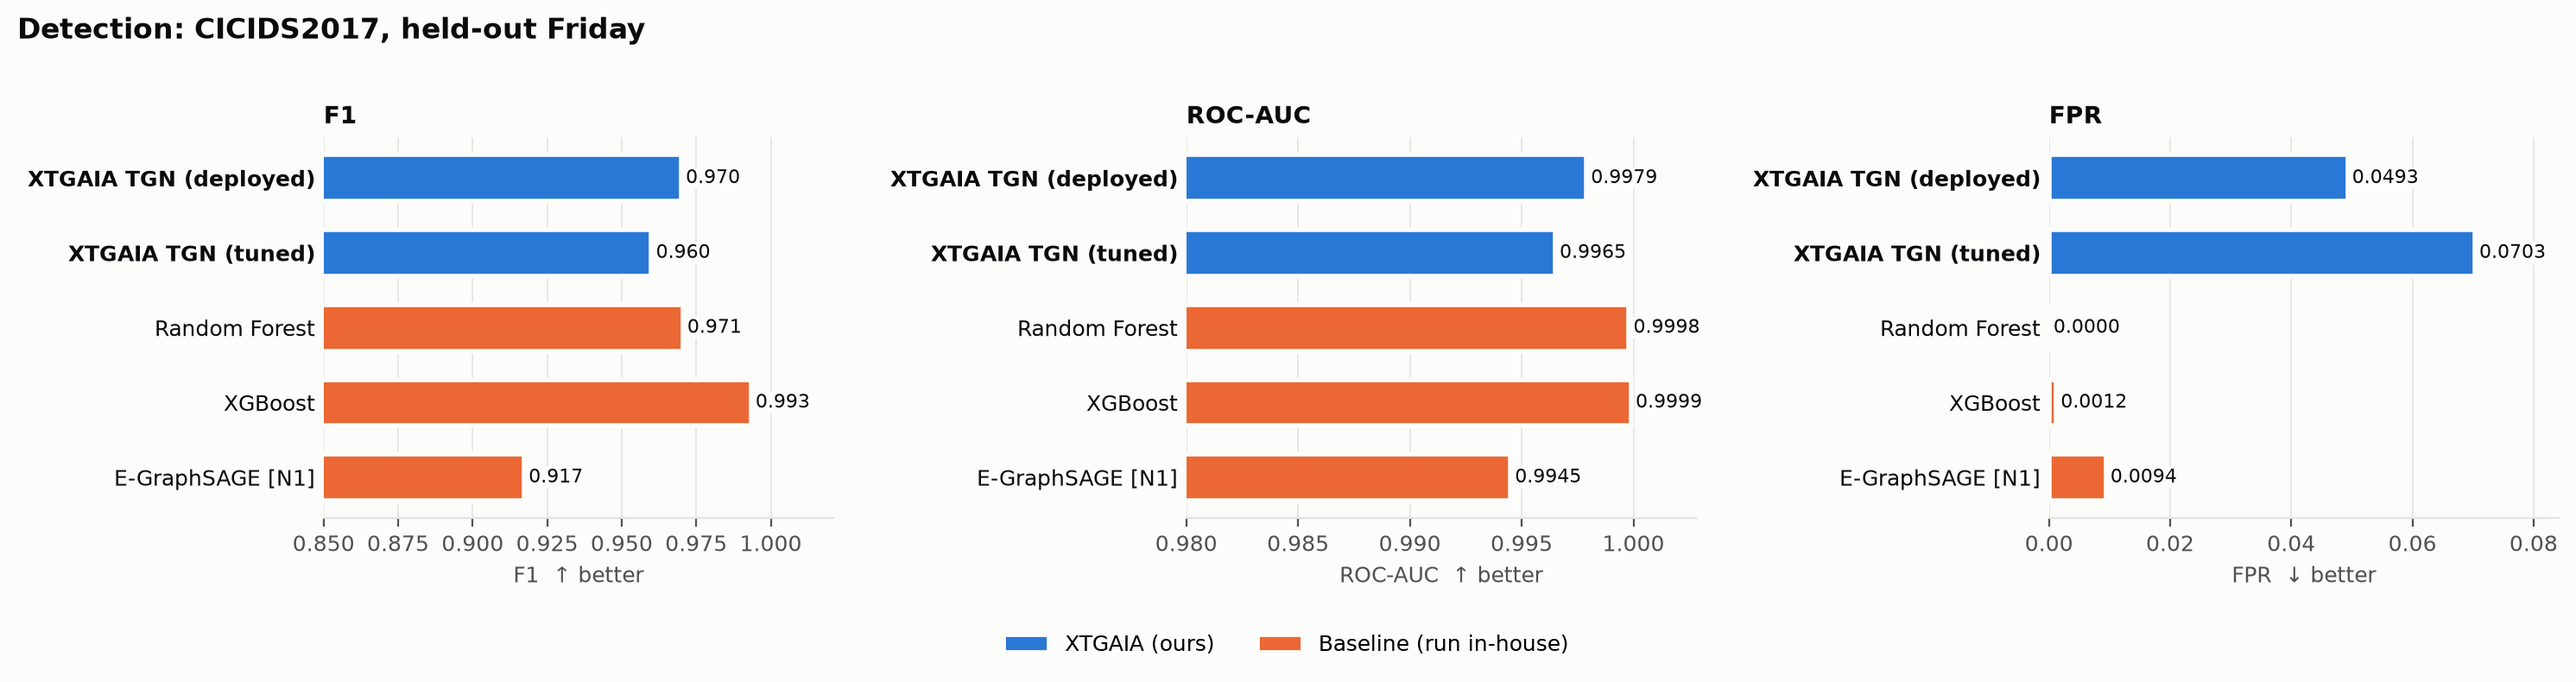
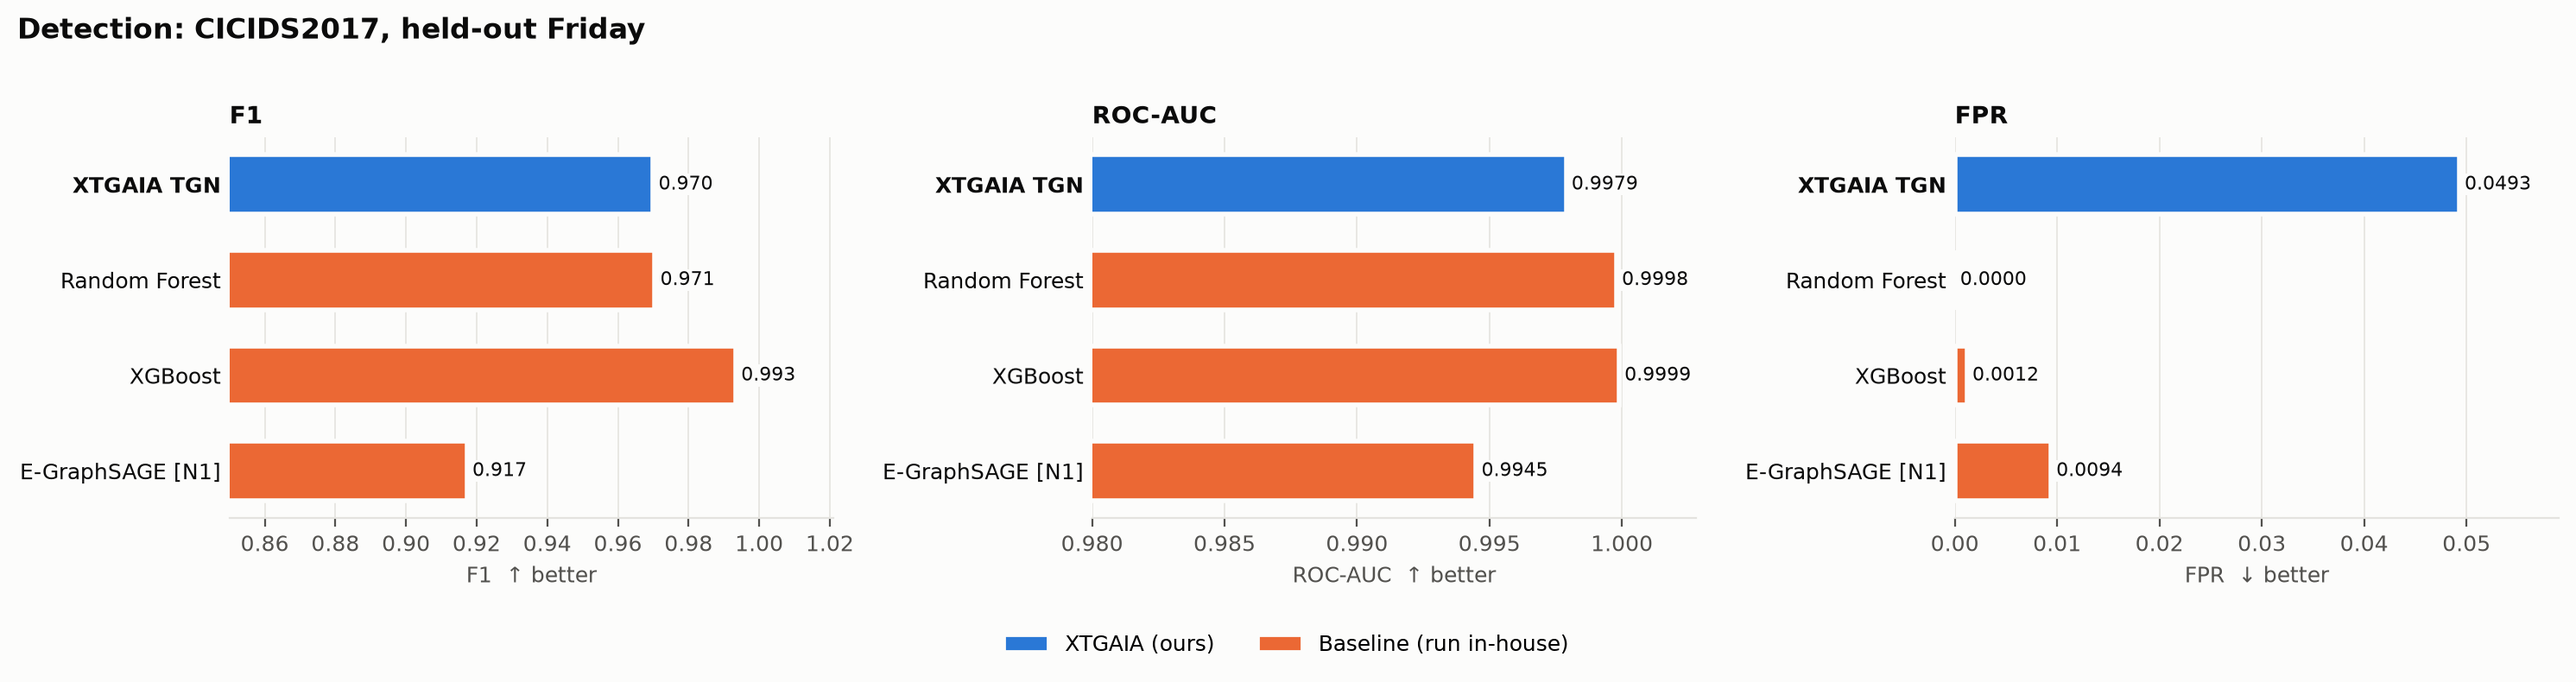
fig1b: show only the deployed TGN on CICIDS held-out Friday (tuned model dropped from the figure)

diff --git a/scripts/make_comparison_figures.py b/scripts/make_comparison_figures.py
@@ -137,11 +137,11 @@ def design_check():
 
 def detection_cicids():
     # docs/evaluation_results.md, CICIDS2017 held-out Friday (train Mon-Thu, test Friday)
-    f1 = [("XTGAIA TGN (deployed)", 0.970, "ours"), ("XTGAIA TGN (tuned)", 0.960, "ours"),
+    f1 = [("XTGAIA TGN", 0.970, "ours"),
           ("Random Forest", 0.9705, "inhouse"), ("XGBoost", 0.9934, "inhouse"), ("E-GraphSAGE [N1]", 0.9173, "inhouse")]
-    auc = [("XTGAIA TGN (deployed)", 0.9979, "ours"), ("XTGAIA TGN (tuned)", 0.9965, "ours"),
+    auc = [("XTGAIA TGN", 0.9979, "ours"),
            ("Random Forest", 0.9998, "inhouse"), ("XGBoost", 0.9999, "inhouse"), ("E-GraphSAGE [N1]", 0.9945, "inhouse")]
-    fpr = [("XTGAIA TGN (deployed)", 0.0493, "ours"), ("XTGAIA TGN (tuned)", 0.0703, "ours"),
+    fpr = [("XTGAIA TGN", 0.0493, "ours"),
            ("Random Forest", 0.0000, "inhouse"), ("XGBoost", 0.0012, "inhouse"), ("E-GraphSAGE [N1]", 0.0094, "inhouse")]
     fig, axes = plt.subplots(1, 3, figsize=(15, 3.6))
     hbar(axes[0], f1, "F1", "F1", xlim=(0.85, 1.0))

diff --git a/docs/figures/README.md b/docs/figures/README.md
@@ -10,7 +10,7 @@ Suggested captions (the details removed from the plots):
   on validation. XTGAIA = tuned final, 1 seed; [11] = mean of 5 runs; † quoted in [11] from the 3D-IDS paper.
 - **fig1b_detection_cicids_heldout**: CICIDS2017 (corrected), train Mon–Thu, test Friday. No paper publishes
   this protocol, so every comparator is run in-house. Default thresholds (validation ω for the TGN).
-  "Deployed" is the live pipeline model; "tuned" is the B11 result.
+  XTGAIA = the deployed (pre-tuning) model; the tuned B11 model is reported in the deviations doc only.
 - **fig2_latency**: XTGAIA laptop baseline (i5-12500H, 8 GB WSL VM, no GPU, full SOC stack, 3 × 300k events)
   against AIR [5] (4 × Dell R760 + A100) at the same stage boundaries, and MTTR against Kulkarni [2].
   Execution is mostly the Shuffle webhook round trip.
